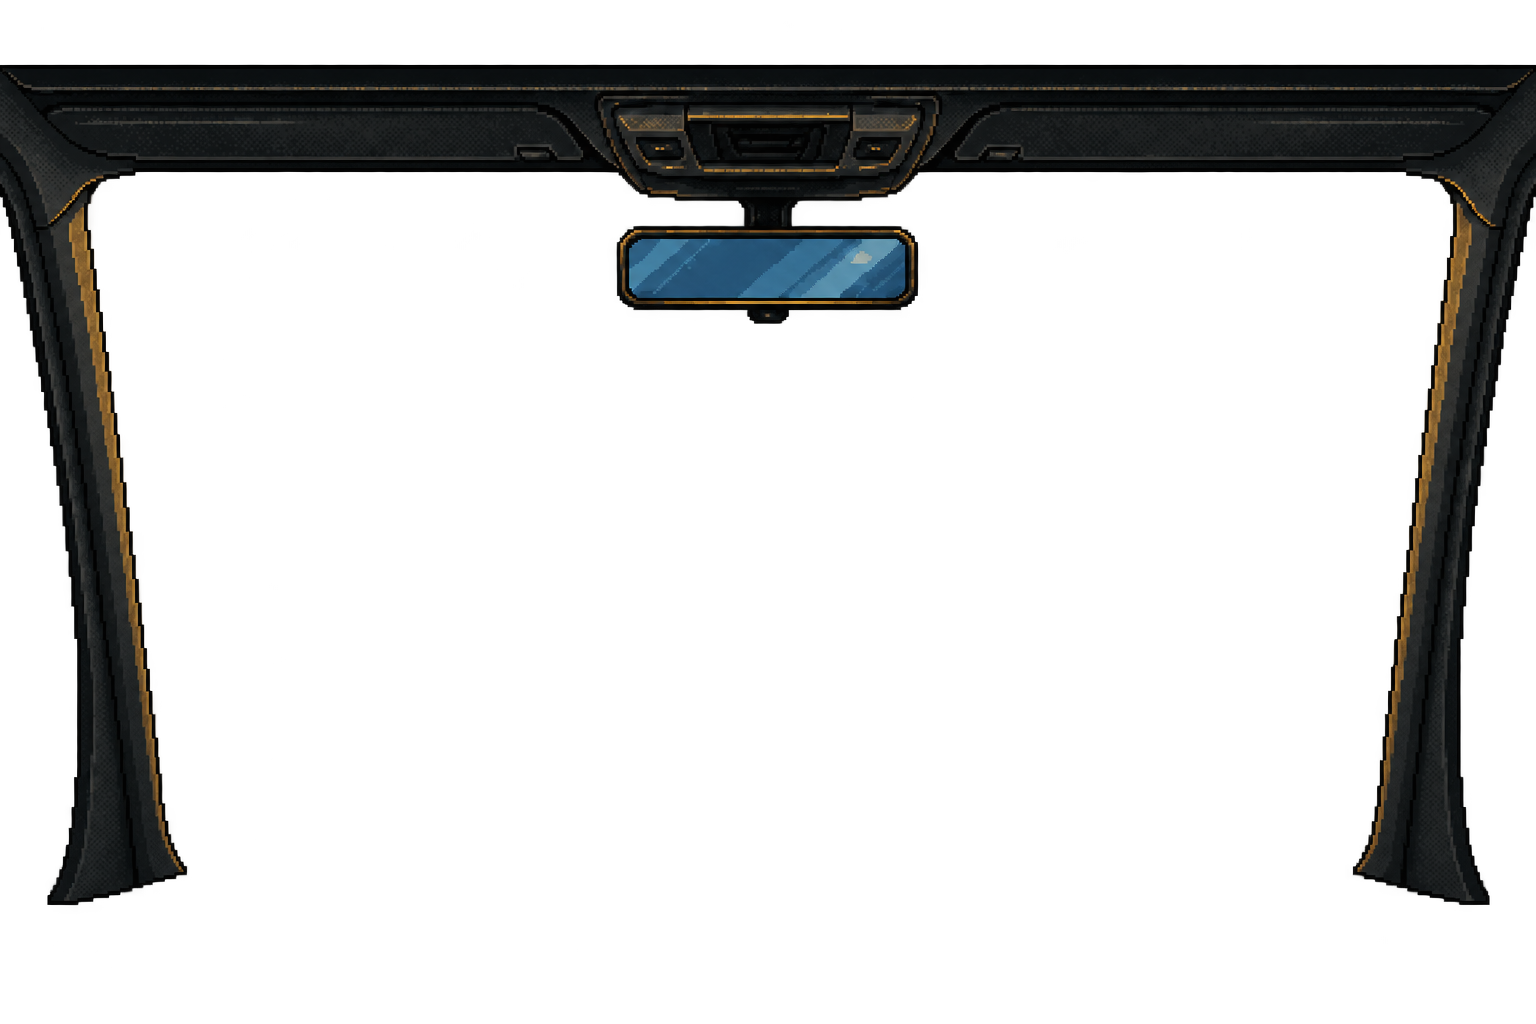
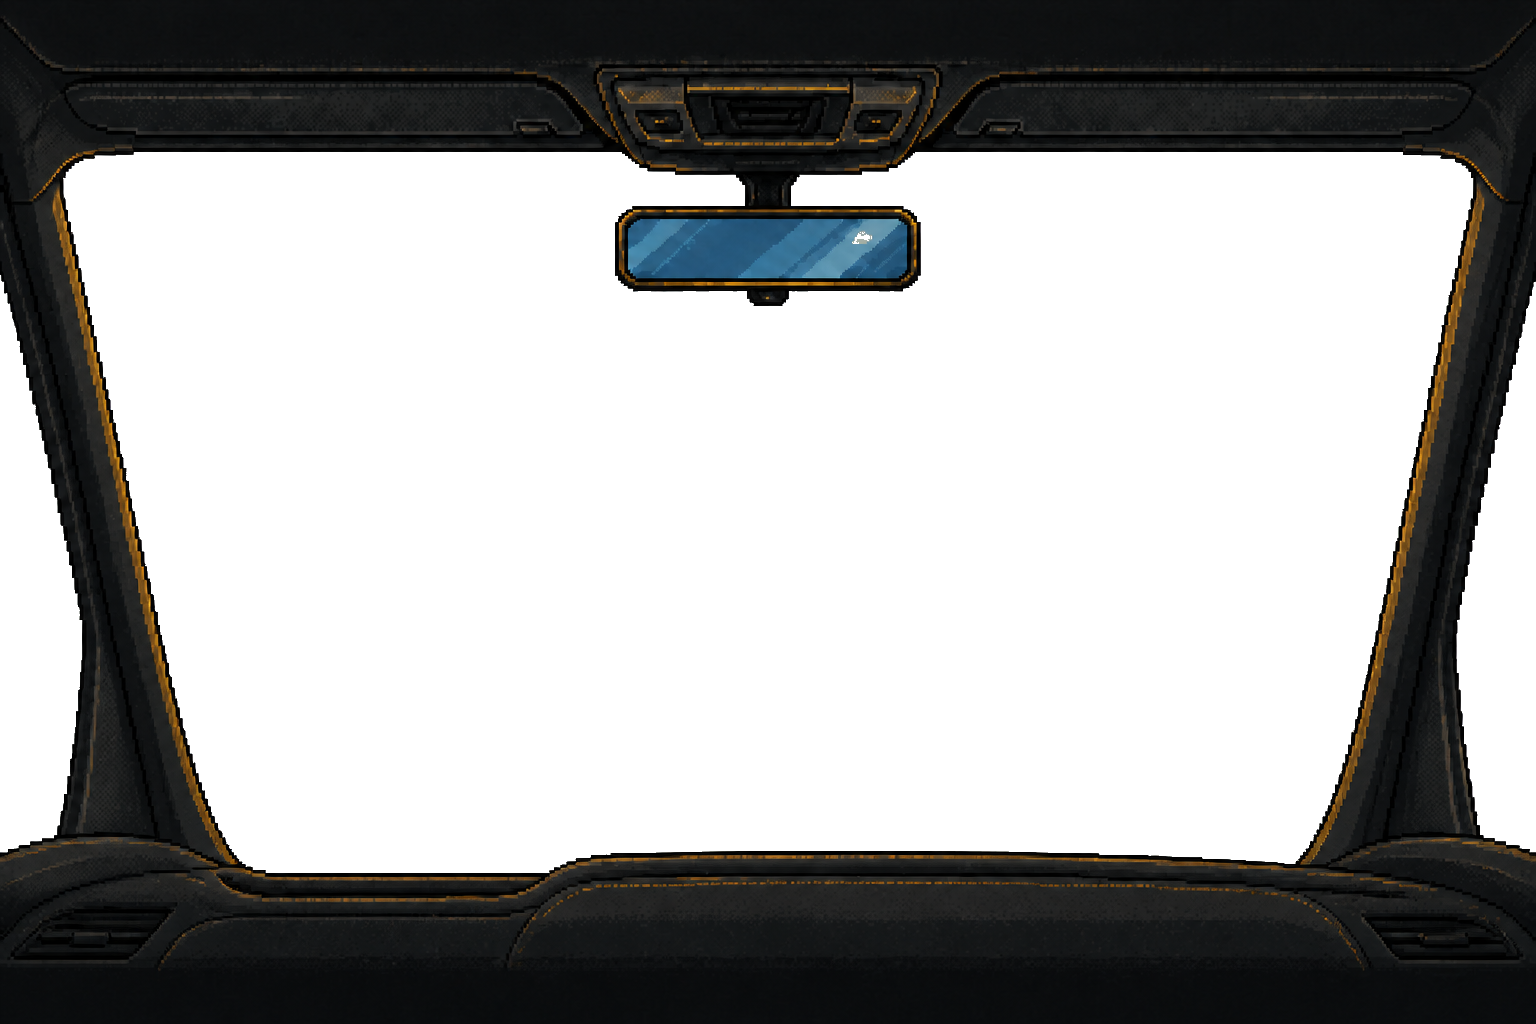
DV03: refine cockpit perspective and world layering

diff --git a/log/game/DV03/index.html b/log/game/DV03/index.html
@@ -4,7 +4,7 @@
 <meta charset="utf-8"><meta name="viewport" content="width=device-width,initial-scale=1"><meta name="robots" content="noindex,nofollow">
 <title>Drive Venture — DV03 Cockpit Study</title><link rel="icon" href="/favicon.svg">
 <link rel="preconnect" href="https://fonts.googleapis.com"><link href="https://fonts.googleapis.com/css2?family=Inter:wght@400;600;700&family=Orbitron:wght@500;600;700;800&display=swap" rel="stylesheet">
-<link rel="stylesheet" href="/assets/css/site.css"><link rel="stylesheet" href="/assets/css/log-dashboard-v3.css?v=20260820-2052"><link rel="stylesheet" href="/assets/css/log-game-v2.css?v=20260830-bklg0090"><link rel="stylesheet" href="/assets/css/log-game-dv03.css?v=20260831-cockpit-frame-1">
+<link rel="stylesheet" href="/assets/css/site.css"><link rel="stylesheet" href="/assets/css/log-dashboard-v3.css?v=20260820-2052"><link rel="stylesheet" href="/assets/css/log-game-v2.css?v=20260830-bklg0090"><link rel="stylesheet" href="/assets/css/log-game-dv03.css?v=20260831-cockpit-frame-2">
 </head>
 <body class="dash-body game-v2 dv03-body">
 <a class="skip-link" href="#main">Skip to content</a><div class="racing-stripe"></div>
@@ -17,10 +17,10 @@
 <div class="windshield dv03-windshield" aria-label="Layered cockpit scene with synthetic data">
 <div class="dv03-layer dv03-sky" aria-hidden="true"><span class="dv03-cloud cloud-a"></span><span class="dv03-cloud cloud-b"></span></div>
 <div class="dv03-layer dv03-landscape" aria-hidden="true"><div class="dv03-horizon"></div><div class="dv03-tree-line tree-line-a"></div><div class="dv03-tree-line tree-line-b"></div><div class="dv03-road"><span class="dv03-road-edge edge-top"></span><span class="dv03-road-edge edge-bottom"></span><span class="dv03-road-dash dash-a"></span><span class="dv03-road-dash dash-b"></span><span class="dv03-road-dash dash-c"></span></div><div class="dv03-parking-pad"></div></div>
+<div class="hours-sign"><span>NEXT LICENSE MILESTONE</span><strong>11.8 HOURS TO GO</strong></div>
 <div class="dv03-layer dv03-cockpit-frame-layer" aria-hidden="true"><img class="dv03-cockpit-frame" src="/assets/images/dv03/cockpit/cockpit-frame.png" alt=""></div>
 <div class="dv03-layer dv03-hero-layer"><img class="dv03-hero" src="/assets/images/dv03/hero/parker-seated.png" alt="Parker seated in the driver's seat, turned toward the viewer with an arm resting on the steering wheel"></div>
-<div class="dv03-layer dv03-cockpit-mask" aria-hidden="true"><div class="dv03-dash-lip"></div></div>
-<div class="hours-sign"><span>NEXT LICENSE MILESTONE</span><strong>11.8 HOURS TO GO</strong></div></div>
+</div>
 <div class="dash-status"><span>● PARKED / READY TO LOG</span><span>LOCAL TIME <b>08:57</b></span></div>
 <div class="cockpit-controls">
 <div class="cockpit-stack"><article class="gauge journey-gauge"><div class="gauge-arc"><div class="gauge-core"><span>JOURNEY</span><strong>38.2 h</strong><small>HOURS</small></div></div><div class="gauge-caption"><span>DRIVES LOGGED</span><b>64</b></div></article><section class="cockpit-info license-info"><div><span>LICENSE STAGE</span><strong>Level 1</strong></div><div><span>STAGE SINCE</span><strong>Apr 18</strong></div><div><span>NEXT TIME MILESTONE</span><strong>11.8 h</strong></div><div><span>XP</span><strong>1,260</strong></div></section></div>

diff --git a/assets/css/log-game-dv03.css b/assets/css/log-game-dv03.css
@@ -12,6 +12,5 @@
 .dv03-parking-pad{position:absolute;z-index:3;left:-5%;bottom:-7%;width:51%;height:24%;background:#767a79;transform:skewX(-16deg);box-shadow:inset 0 5px 0 #aeb2aa}.dv03-parking-pad:after{content:"";position:absolute;left:54%;top:8%;bottom:4%;width:5px;background:#ece9d9;transform:skewX(16deg)}
 .dv03-cockpit-frame-layer{z-index:3;overflow:hidden}.dv03-windshield img.dv03-cockpit-frame{display:block;width:100%;height:100%;object-fit:fill;image-rendering:pixelated}
 .dv03-hero-layer{z-index:4;overflow:hidden}.dv03-hero{position:absolute;display:block;height:72%;width:auto;left:1.5%;bottom:-2%;object-fit:contain;object-position:left bottom;image-rendering:pixelated;filter:drop-shadow(4px 5px 0 rgb(0 0 0/.16))}
-.dv03-cockpit-mask{z-index:5}.dv03-dash-lip{position:absolute;left:24%;right:-7%;bottom:-8%;height:16%;background:#151b22;border-top:5px solid #28333f;transform:skewX(-8deg);box-shadow:0 -3px 0 #090d12}
-.dv03-windshield .hours-sign{z-index:7;left:auto;right:7%;top:12%;transform:none;width:min(330px,38%);border:3px solid #d5d4c7;background:#2b633d;box-shadow:5px 5px 0 rgb(0 0 0/.28)}.dv03-body .radio-display h2{margin:8px 0 5px;color:var(--green);font:700 22px Orbitron,sans-serif}
-@media(max-width:760px){.dv03-chip{padding:8px 10px}.dv03-hero{height:80%;left:-2%;bottom:-3%}.dv03-windshield .hours-sign{right:3%;top:8%;width:40%;padding:7px 8px}.dv03-dash-lip{left:22%;height:13%}}
+.dv03-windshield .hours-sign{z-index:2;left:auto;right:7%;top:18%;transform:none;width:min(330px,38%);border:3px solid #d5d4c7;background:#2b633d;box-shadow:5px 5px 0 rgb(0 0 0/.28)}.dv03-body .radio-display h2{margin:8px 0 5px;color:var(--green);font:700 22px Orbitron,sans-serif}
+@media(max-width:760px){.dv03-chip{padding:8px 10px}.dv03-hero{height:80%;left:-2%;bottom:-3%}.dv03-windshield .hours-sign{right:3%;top:18%;width:40%;padding:7px 8px}}
